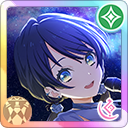
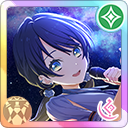
add new cards

diff --git a/public/seasonscheck.html b/public/seasonscheck.html
@@ -721,7 +721,18 @@
                             <img class="cardimg" src="/limitbreak/limitbreak1.png" />
                         </div>
                     </div>
-                    <div class="empty"></div>
+                    <div class="card kaho__normal__sr">
+                        <div class="card__icon">
+                            <img class="cardimg" src="/normal/kaho/sr/soda.png" />
+                        </div>
+                        <div class="overlay invisible">
+                            <img class="cardimg animation" src="/overlay/gold.png" />
+                        </div>
+                        <div class="overlay__normal"></div>
+                        <div class="limitbreak invisible">
+                            <img class="cardimg" src="/limitbreak/limitbreak1.png" />
+                        </div>
+                    </div>
                 </div>
                 <div class="normalcard__section 2023__kozue__normal__ur">
                     <div class="card kozue__normal__ur">
@@ -775,7 +786,18 @@
                             <img class="cardimg" src="/overlay/loginbonus.png" />
                         </div>
                     </div>
-                    <div class="empty"></div>
+                    <div class="card kozue__normal__ur">
+                        <div class="card__icon">
+                            <img class="cardimg" src="/normal/kozue/ur/soda.png" />
+                        </div>
+                        <div class="overlay invisible">
+                            <img class="cardimg animation" src="/overlay/rainbow.png" />
+                        </div>
+                        <div class="overlay__normal"></div>
+                        <div class="limitbreak invisible">
+                            <img class="cardimg" src="/limitbreak/limitbreak1.png" />
+                        </div>
+                    </div>
                 </div>
                 <div class="normalcard__section 2023__kozue__normal__sr">
                     <div class="card kozue__normal__sr">
@@ -918,7 +940,18 @@
                             <img class="cardimg" src="/limitbreak/limitbreak1.png" />
                         </div>
                     </div>
-                    <div class="empty"></div>
+                    <div class="card sayaka__normal__sr">
+                        <div class="card__icon">
+                            <img class="cardimg" src="/normal/sayaka/sr/soda.png" />
+                        </div>
+                        <div class="overlay invisible">
+                            <img class="cardimg animation" src="/overlay/gold.png" />
+                        </div>
+                        <div class="overlay__normal"></div>
+                        <div class="limitbreak invisible">
+                            <img class="cardimg" src="/limitbreak/limitbreak1.png" />
+                        </div>
+                    </div>
                     <div class="empty"></div>
                     <div class="empty"></div>
                 </div>
@@ -959,7 +992,18 @@
                             <img class="cardimg" src="/limitbreak/limitbreak1.png" />
                         </div>
                     </div>
-                    <div class="empty"></div>
+                    <div class="card tsuzuri__normal__ur">
+                        <div class="card__icon">
+                            <img class="cardimg" src="/normal/tsuzuri/ur/soda.png" />
+                        </div>
+                        <div class="overlay invisible">
+                            <img class="cardimg animation" src="/overlay/rainbow.png" />
+                        </div>
+                        <div class="overlay__normal"></div>
+                        <div class="limitbreak invisible">
+                            <img class="cardimg" src="/limitbreak/limitbreak1.png" />
+                        </div>
+                    </div>
                     <div class="empty"></div>
                 </div>
                 <div class="normalcard__section 2023__tsuzuri__normal__sr">
@@ -1123,6 +1167,8 @@
                 </div>
             </div>
       </div>
+    </div>
+    <div class="frame">
       <button class="button downImgButton" type="button">Save<br>Image</button>
       <button class="button checkButton" type="button">
         <div class="checkButton__text">Lv.</div>
